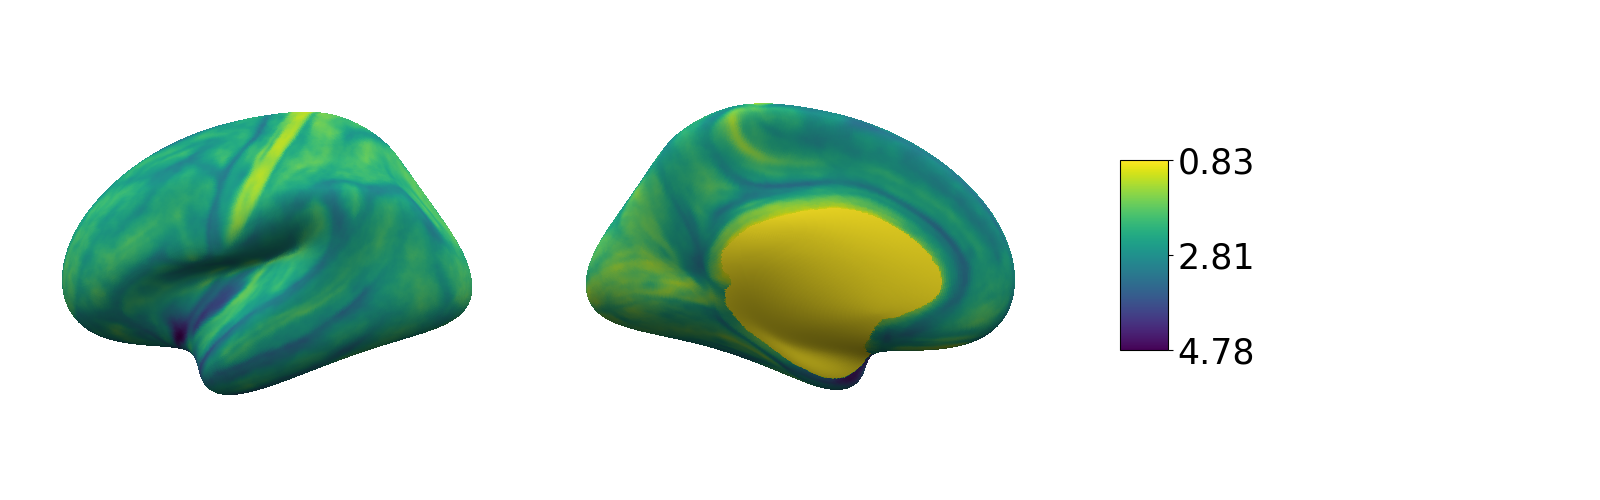
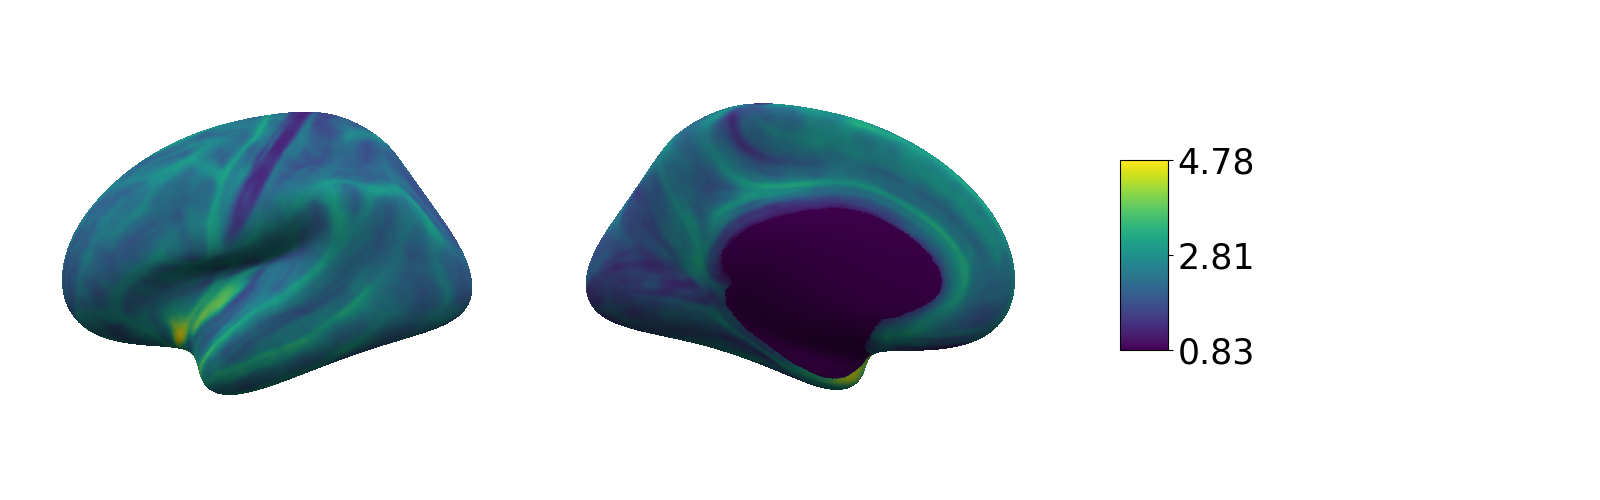
colorbar

diff --git a/script_matplotlib.py b/script_matplotlib.py
@@ -10,4 +10,5 @@ mask=np.ones_like(overlay).astype(bool)
 mask[cortex]=0
 overlay[mask]=np.min(overlay)
 
-plot_surf( vertices, faces, overlay, rotate=[90,270])
+plot_surf( vertices, faces, overlay, rotate=[90,270], filename='demo_plot.png',
+          vmax = np.max(overlay[cortex]),vmin=np.min(overlay[cortex]))
